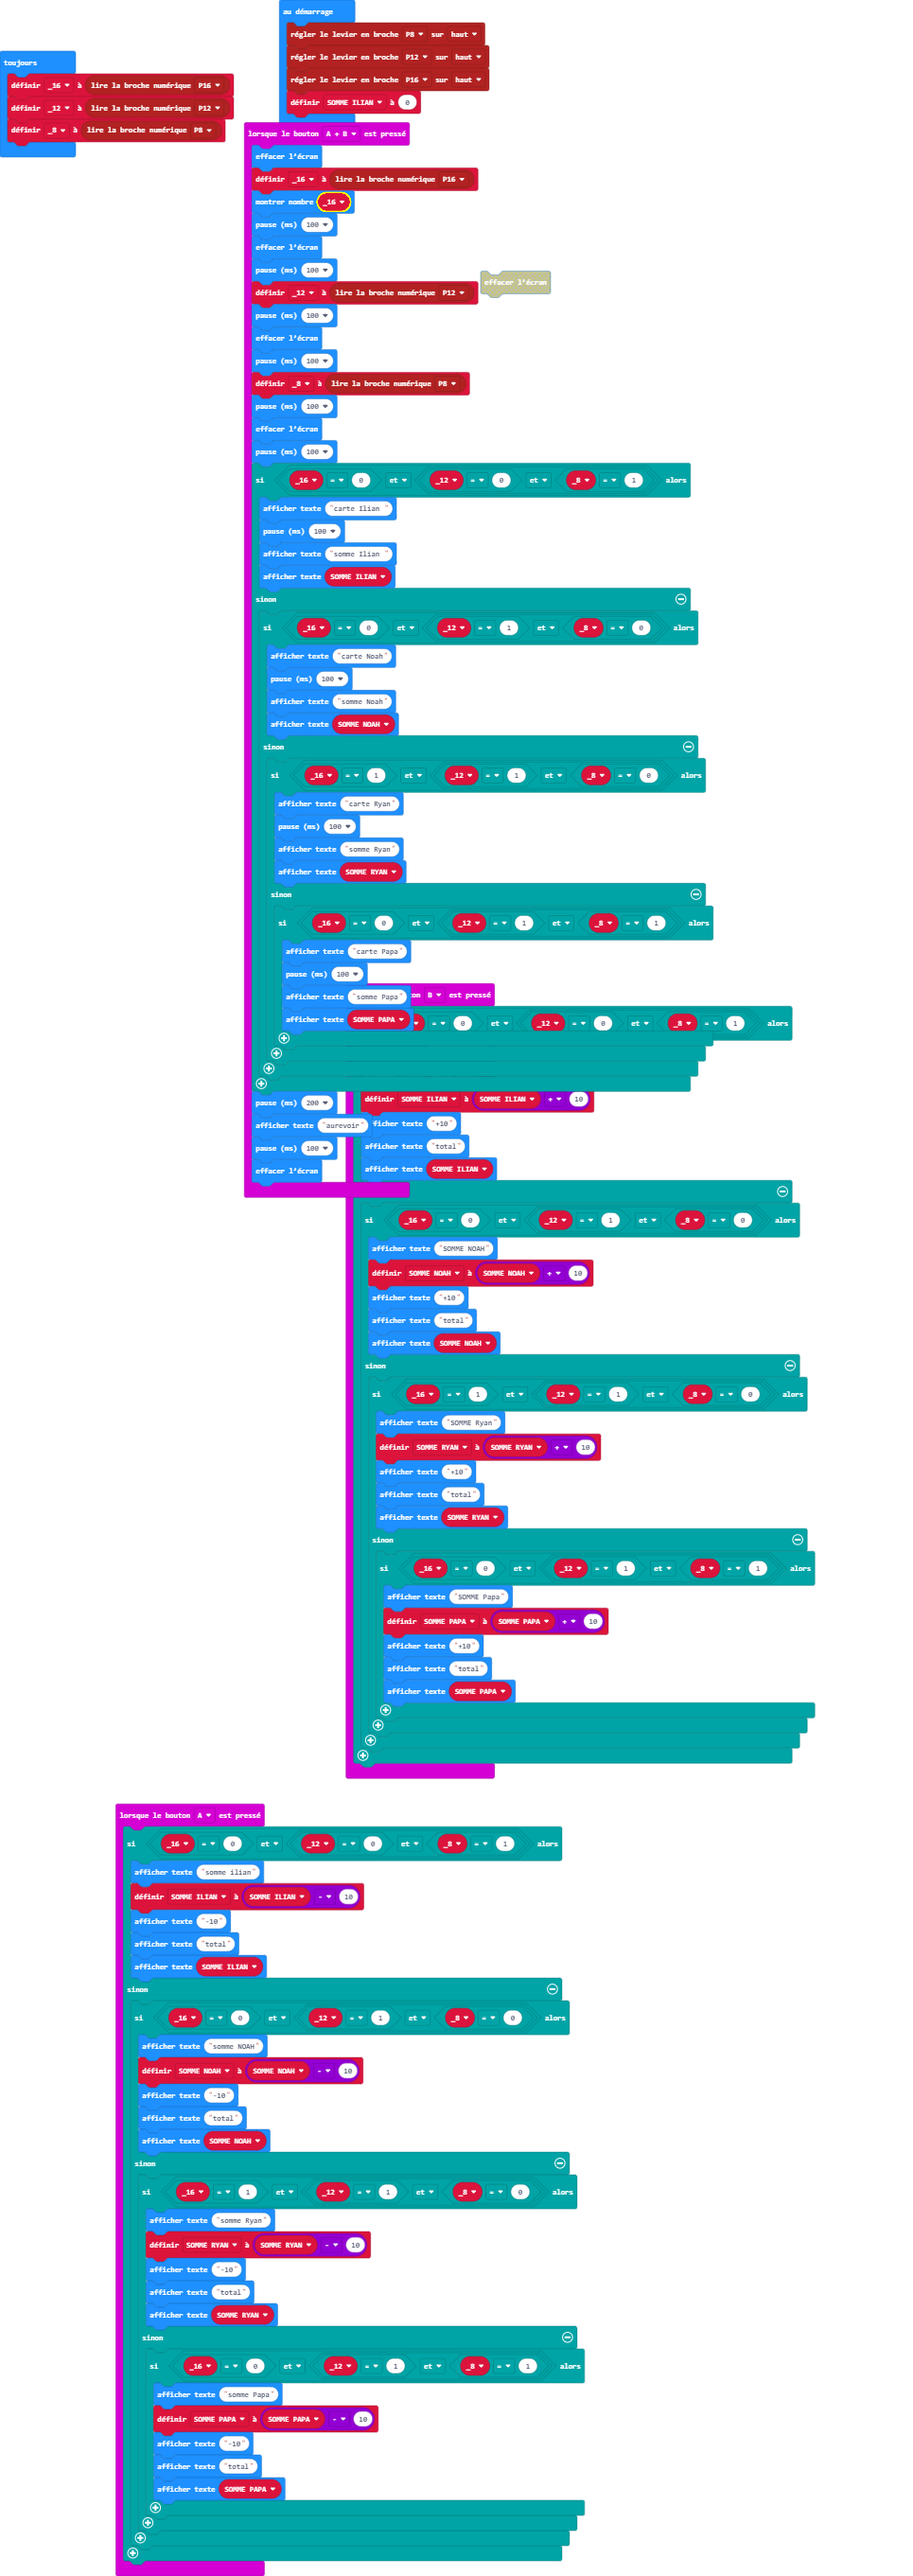
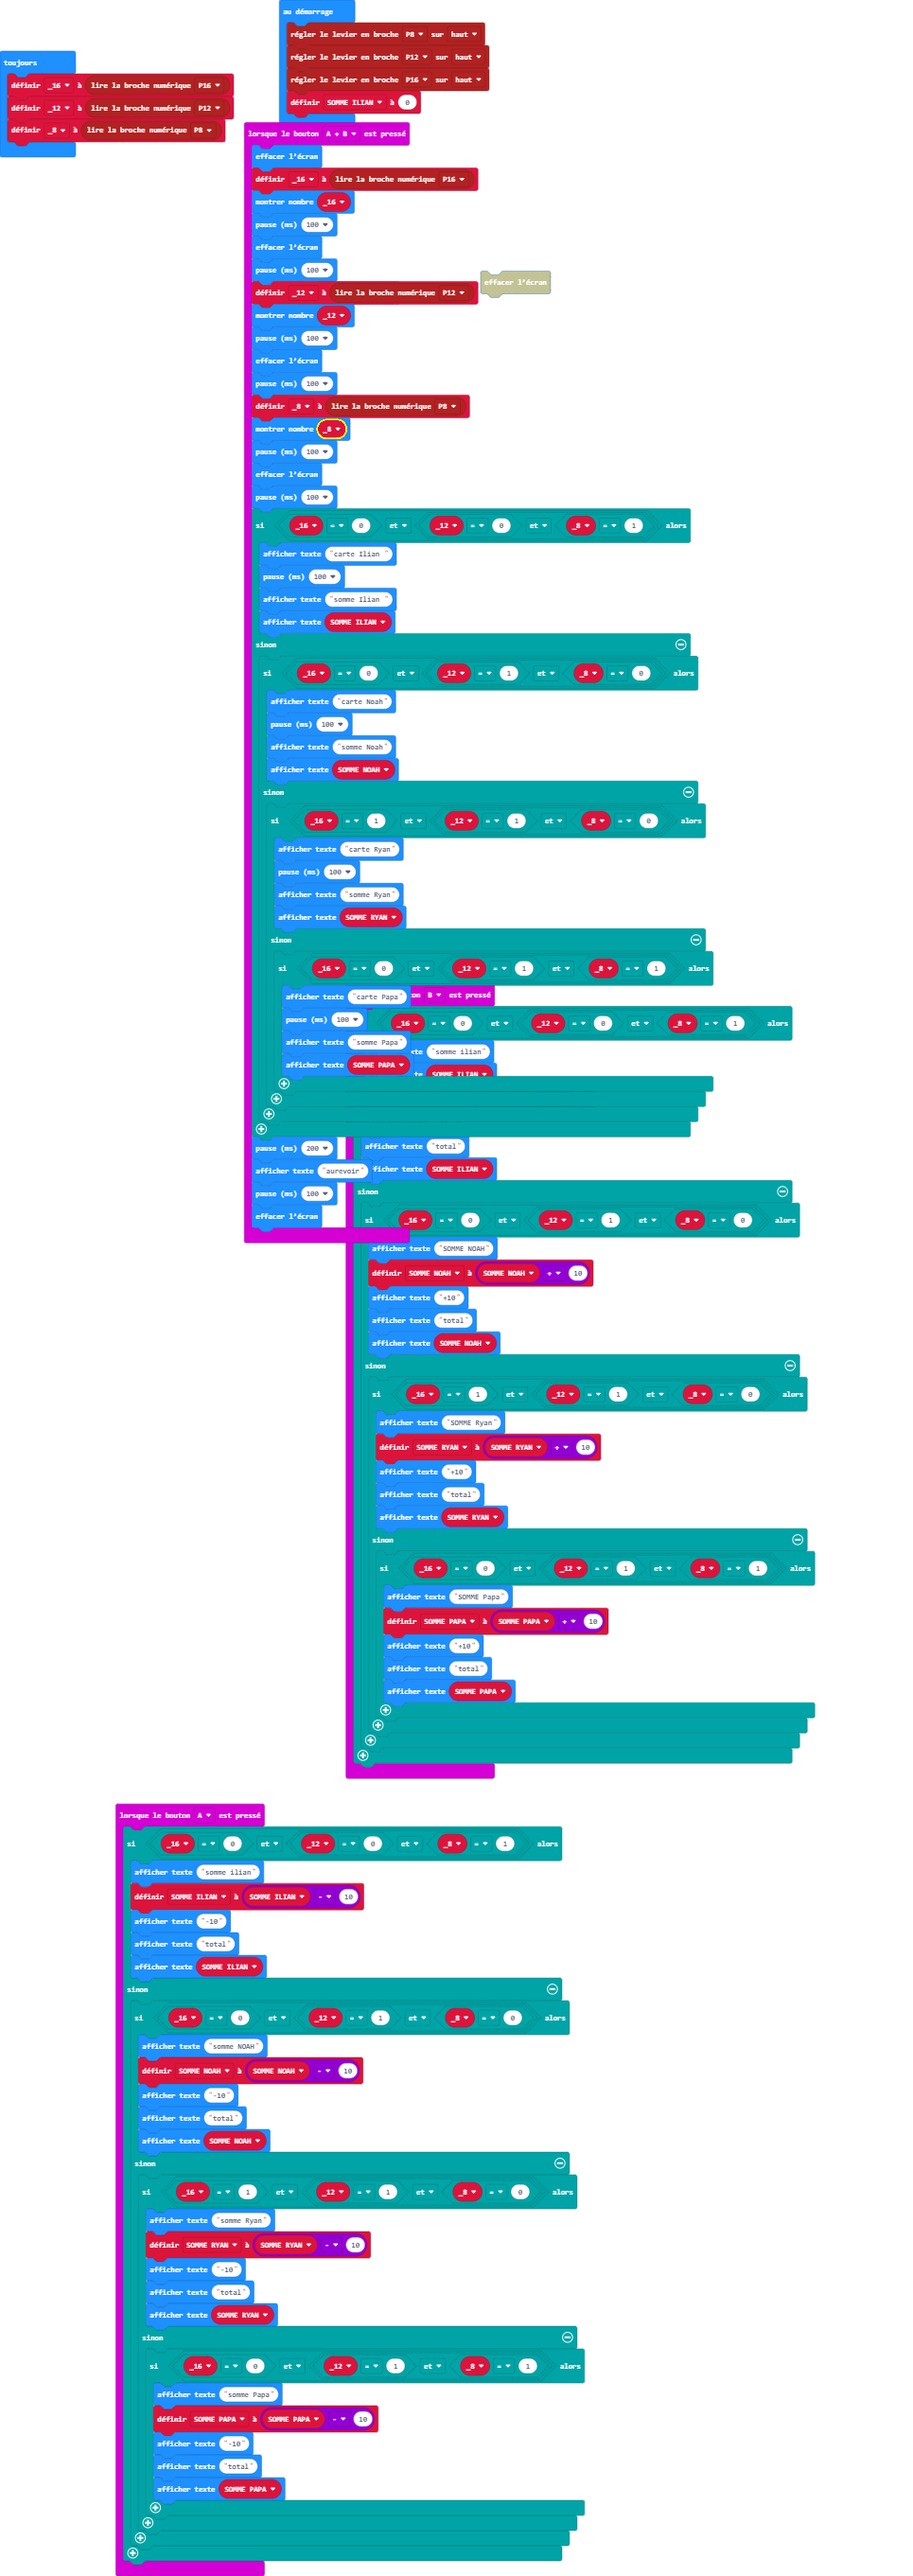
Mise à jour main.blocks, main.ts

Changed region(s): [[0.2487, 0.0937, 0.8083, 0.4996]]

diff --git a/main.ts b/main.ts
@@ -39,10 +39,12 @@ input.onButtonPressed(Button.AB, function () {
     basic.clearScreen()
     basic.pause(100)
     _12 = pins.digitalReadPin(DigitalPin.P12)
+    basic.showNumber(_12)
     basic.pause(100)
     basic.clearScreen()
     basic.pause(100)
     _8 = pins.digitalReadPin(DigitalPin.P8)
+    basic.showNumber(_8)
     basic.pause(100)
     basic.clearScreen()
     basic.pause(100)
